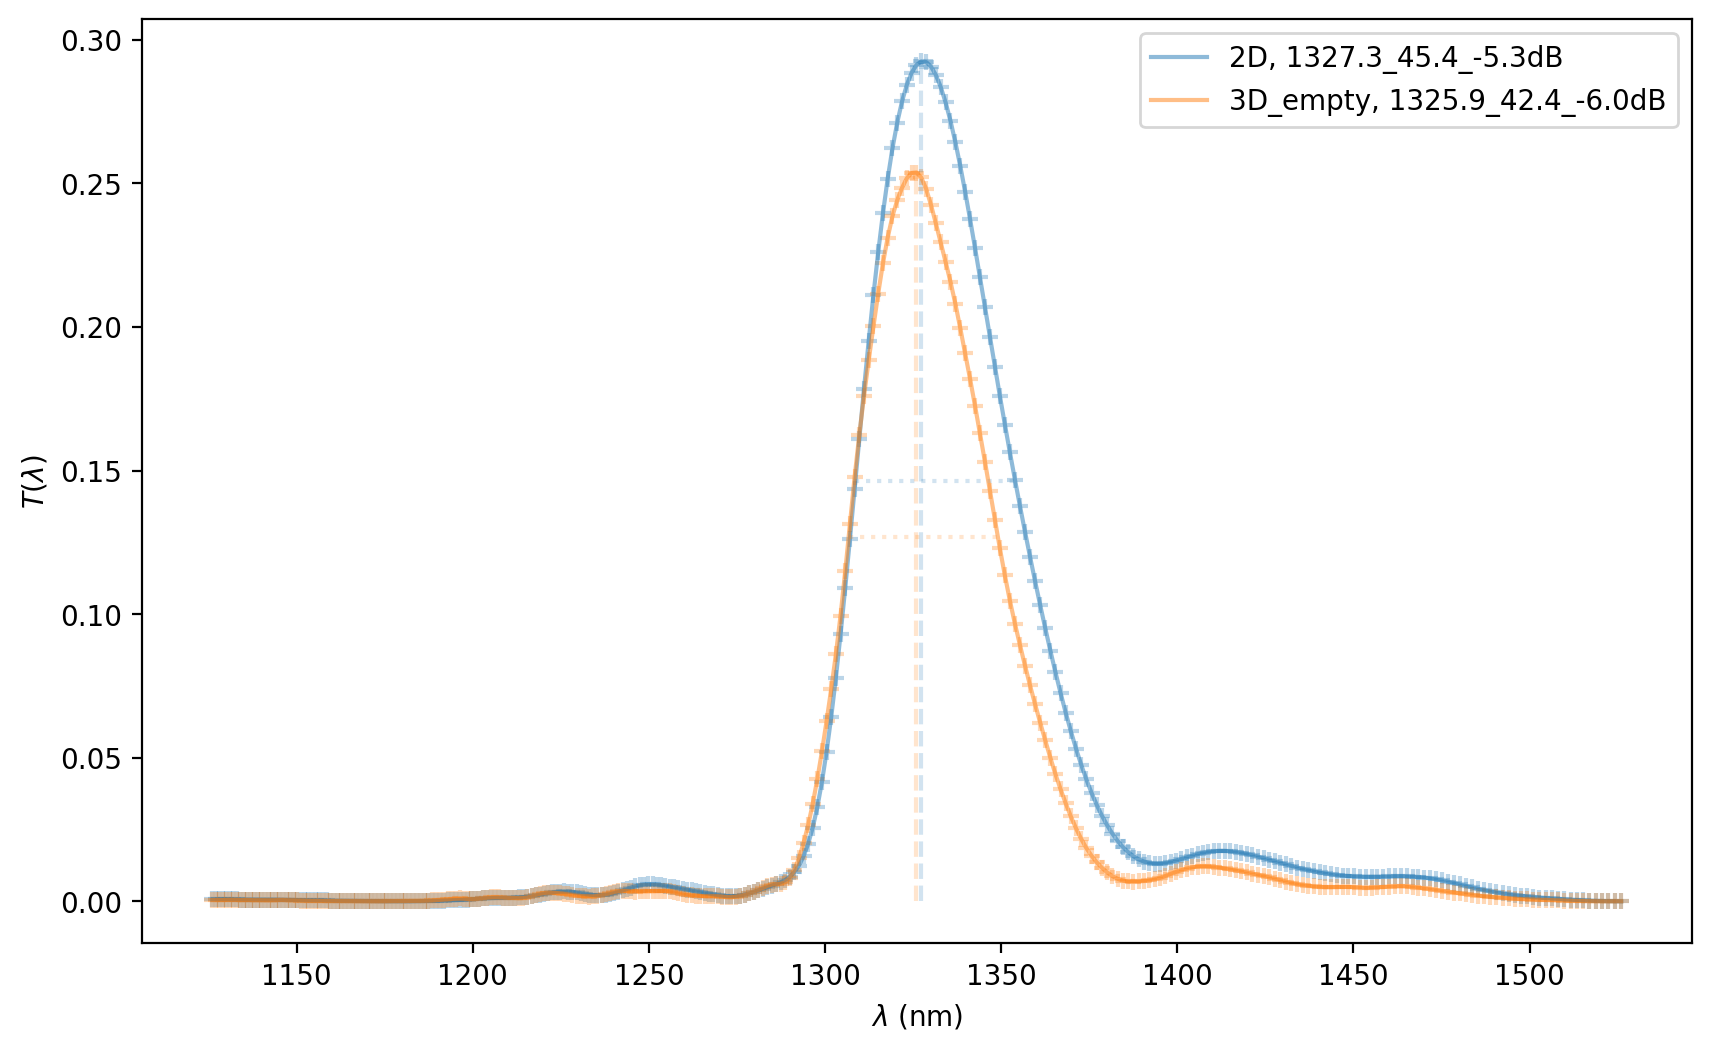
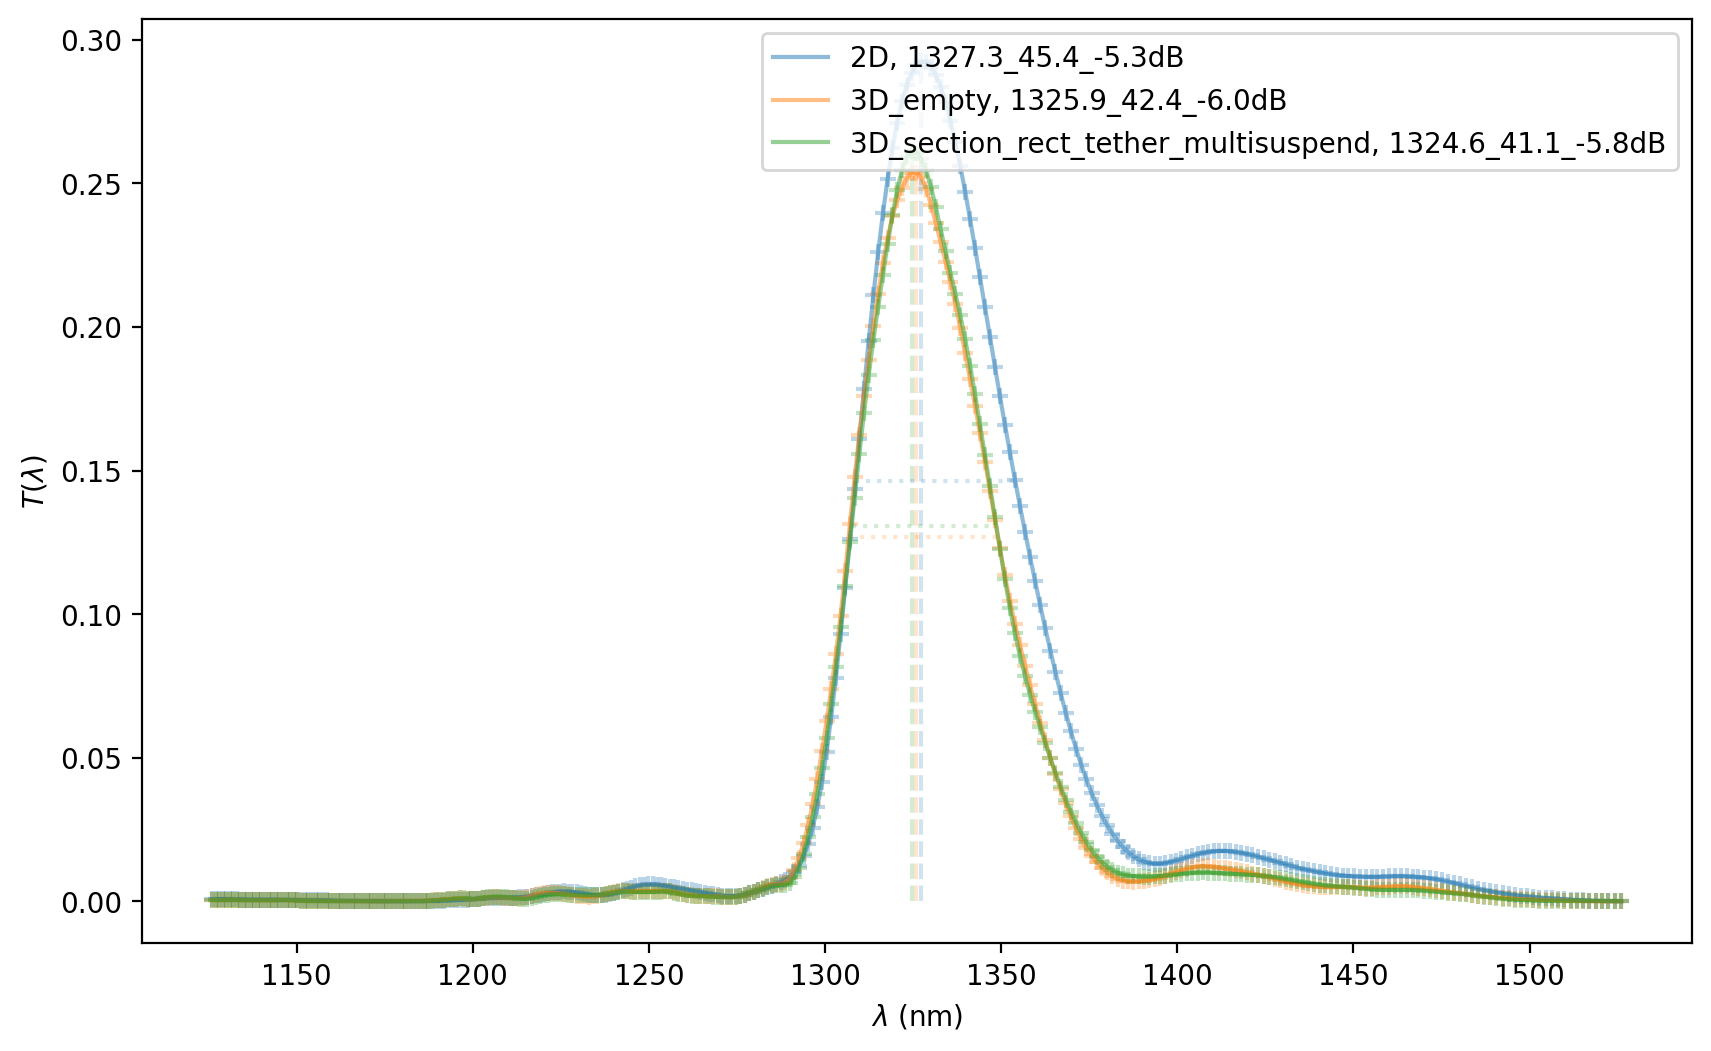
639a_bst

diff --git a/230823_lumapi_try/work_loader.py b/230823_lumapi_try/work_loader.py
@@ -84,29 +84,26 @@ if __name__ == "__main__":  # type: ignore
     # print("sleeping")
     # time.sleep(3600 * 5)
 
-    # f93f_NL,NH_sweep
-    work_f93f = load_json("f93f")
-    work_f93f["max_iter"] = 70
-    #
-    work_f93f_1_1 = deepcopy(work_f93f)
-    work_f93f_1_1["NL"] = 1
-    work_f93f_1_1["NH"] = 1
-    #
-    work_f93f_1_2 = deepcopy(work_f93f)
-    work_f93f_1_2["NL"] = 1
-    work_f93f_1_2["NH"] = 2
-    #
-    work_f93f_2_1 = deepcopy(work_f93f)
-    work_f93f_2_1["NL"] = 2
-    work_f93f_2_1["NH"] = 1
-    #
-    work_f93f_2_3 = deepcopy(work_f93f)
-    work_f93f_2_3["NL"] = 2
-    work_f93f_2_3["NH"] = 3
-    #
-    work_f93f_3_2 = deepcopy(work_f93f)
-    work_f93f_3_2["NL"] = 3
-    work_f93f_3_2["NH"] = 2
-    #
-    works = [work_f93f_1_1, work_f93f_1_2, work_f93f_2_1, work_f93f_2_3, work_f93f_3_2]
-    work_loader(works, "f93f_NL,NH_sweep", merge_data=True)
+    # 639a_bst
+    work_grating_639a = {
+        "lambda_0": 1.326e-6,
+        "FWHM": 20e-9,
+        "alpha": 0.00,
+        "penalty": [[0.01, 10e-9], [0.02, 100e-9]],
+        "N": 25,
+        "maxiter": 100,
+        "MIN_FEATURE_SIZE": 40e-9,
+        "FOM_typ": "square",
+        "SOURCE_typ": "gaussian_released",
+        "grating_typ": "grating",
+        "start_radius": 12e-6,
+        "simulation_typ": 0,
+    }
+    work_grating_639a_bst = work_grating_639a
+    work_grating_639a_bst["grating_typ"] = "grating"
+    work_grating_639a_bst["simulation_typ"] = 2
+    work_grating_639a_bst["source_angle"] = 14.8
+    work_grating_639a_bst["N"] = 30
+    work_grating_639a_bst["penalty"] = [[0.02, 10e-9], [0.02, 100e-9]]
+    works = [work_grating_639a_bst]
+    work_loader(works, "639a_bst")

diff --git a/230823_lumapi_try/f93f/f93f_compare_transmission.py b/230823_lumapi_try/f93f/f93f_compare_transmission.py
@@ -17,9 +17,7 @@ if __name__ == "__main__":
     data = np.loadtxt(fileName)
     arb_fit_1d(ax, data[:, 0] * 1e3, data[:, 1], "2D")
     # >>> 3D <<< #
-    tether_typ_list = [
-        "empty",
-    ]
+    tether_typ_list = ["empty", "section_rect_tether_multisuspend"]
     for tether_typ in tether_typ_list:
         fileName = "{:s}_{:s}_3D_simulated_transmission.txt".format(
             dataName, tether_typ
